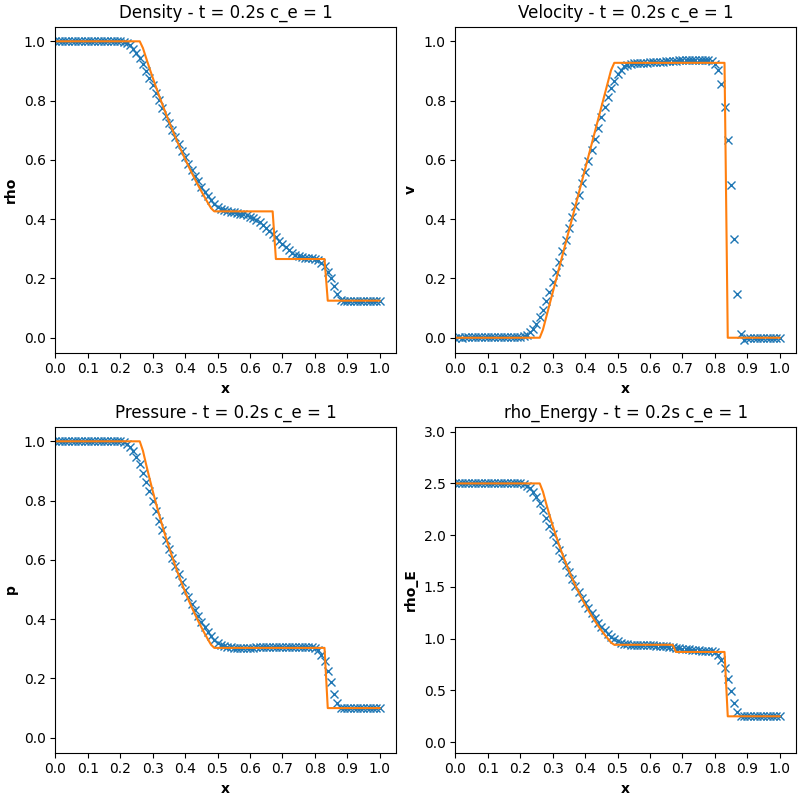
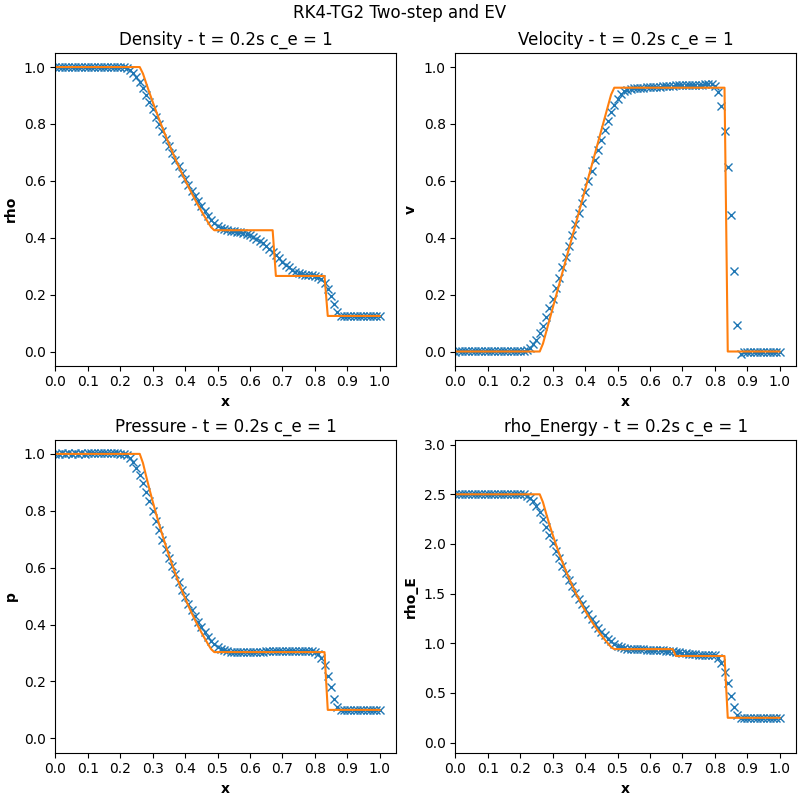
fixed LPS method bug

diff --git a/main.py b/main.py
@@ -14,8 +14,8 @@ def configure_simulation():
           "2. Taylor Galerkin (TG2) One-Step \n"
           "3. Taylor Galerkin (TG2) Two-Step \n"
           "4. RK4 with Taylor Galerkin Two-Step \n"
-          "5. RK4 with Taylor Galerkin Two-Step and Entropy Viscosity \n"
-          "6. RK4 with Taylor Galerkin Two-Step, EV and LPS \n"
+          "5. RK4 with Taylor Galerkin Two-Step and EV stabilization \n"
+          "6. RK4 with EV and LPS stabilization \n"
           "\nType your choice here -----> "
      ))
 
@@ -26,8 +26,8 @@ def configure_simulation():
           "2. Taylor Galerkin (TG2) One-Step \n"
           "3. Taylor Galerkin (TG2) Two-Step \n"
           "4. RK4 with Taylor Galerkin (TG2) Two-Step \n"
-          "5. RK4 with Taylor Galerkin Two-Step and Entropy Viscosity \n"
-          "6. RK4 with Taylor Galerkin Two-Step, EV and LPS \n"
+          "5. RK4 with Taylor Galerkin Two-Step and EV stabilization \n"
+          "6. RK4 with EV and LPS stabilization \n"
           "\nType your choice here -----> "
           ))
      return t_end, stabilization_choice
@@ -36,10 +36,11 @@ def configure_simulation():
 def setup_simulation(t_end, stabilization_choice):
     variables_titles = ['- Density', '- Velocity', '- Pressure', '- Energy']
     y_axis_labels = ['rho', 'v', 'p', 'E']
-    stabilization_graph_titles = ['1D Shock Tube (RK4-Standard Galerkin) ', '1D Shock Tube (TG2-One step)', '1D Shock Tube (TG2-Two step)', '1D Shock Tube (RK4-TG2 Two step)', 'RK4-TG2 Two-step and EV', 'RK4-TG2 Two-Step, EV and LPS']
-    folder_paths = ['./RK4_standard_galerkin', './TG2_one_step', './TG2_two_step', './RK4_TG2_two_step', './RK4_TG2_two_step_EV', './RK4_TG2_two_step_EV_LPS']
-    file_names = ['RK4_standard_galerkin', 'TG2_one_step', './TG2_two_step', './RK4_TG2_two_step', './RK4_TG2_two_step_EV', './RK4_TG2_two_step_EV_LPS']
-    methods_file_name = ['RK4_galerkin', 'TG2_one_step', 'TG2_two_step', 'RK4_TG2_two_step', 'RK4_TG2_two_step_EV', 'RK4_TG2_two_step_EV_LPS']
+    stabilization_graph_titles = ['1D Shock Tube (RK4-Standard Galerkin) ', '1D Shock Tube (TG2-One step)', '1D Shock Tube (TG2-Two step)', '1D Shock Tube (RK4-TG2 Two step)', 'RK4-TG2 Two-step and EV', 'RK4, EV and LPS stabilization']
+    folder_paths = ['./RK4_standard_galerkin', './TG2_one_step', './TG2_two_step', './RK4_TG2_two_step', './RK4_TG2_two_step_EV', './RK4_EV_LPS']
+    file_names = ['RK4_standard_galerkin', 'TG2_one_step', './TG2_two_step', './RK4_TG2_two_step', './RK4_TG2_two_step_EV', './RK4_EV_LPS']
+    methods_file_name = ['RK4_galerkin', 'TG2_one_step', 'TG2_two_step', 'RK4_TG2_two_step', 'RK4_TG2_two_step_EV', 'RK4_EV_LPS']
+    init_problem_name = ['shock', 'explosion']
 
     if stabilization_choice == 1:
          stabilization_graph_title = stabilization_graph_titles[0]
@@ -123,7 +124,7 @@ def setup_simulation(t_end, stabilization_choice):
     x0_analytical = numel // 2
 
     # Entropy viscosity tunable constant
-    c_e = 0.4
+    c_e = 1
 
 
     return {
@@ -135,6 +136,7 @@ def setup_simulation(t_end, stabilization_choice):
          'folder_path': folder_path,
          'file_name': file_name,
          'method_file_name': method_file_name,
+         'init_problem_name': init_problem_name,
          'L': L,
          'xnode': xnode,
          'numel': numel,
@@ -396,6 +398,7 @@ def run_simulation(config):
                 M_tuple, F_tuple, F_visc_tuple, F_lps_tuple = assemble_EV_LPS(U_temp_stage, config['numel'], config['xnode'], config['N_mef'], config['Nxi_mef'], config['wpg'], config['gamma'], config['dt'], config['c_e'], g_tuple)
 
                 k[s] = tuple(config['dt'] * solve(M_tuple[var], (F_tuple[var] + F_visc_tuple[var] + F_lps_tuple[var])) for var in range(len(U_temp)))
+
 
 
             for var in range(len(config['U'])):

diff --git a/functions.py b/functions.py
@@ -433,16 +433,15 @@ def assemble_g_rhs_system(U_current, numel, xnode, N_mef, Nxi_mef, wpg):
             Nx = Nxi_mef[ig, :] * 2 / h
             w_ig = weight[ig]
 
-            rho_gp = np.dot(N, rho_el)
-            m_gp = np.dot(N, m_el)
-            rho_E_gp = np.dot(N, rho_E_el)
-            
+            rho_gpx = np.dot(Nx, rho_el)
+            m_gpx = np.dot(Nx, m_el)
+            rho_E_gpx = np.dot(Nx, rho_E_el)
+        
             M_g[np.ix_(isp, isp)] += w_ig * np.outer(N, N)
 
-            rhs_rho[isp] += w_ig * (Nx * rho_gp)
-            rhs_m[isp] += w_ig * (Nx * m_gp)
-            rhs_rho_E[isp] += w_ig * (Nx * rho_E_gp)
-
+            rhs_rho[isp] += w_ig * (N * rho_gpx)
+            rhs_m[isp] += w_ig * (N  * m_gpx)
+            rhs_rho_E[isp] += w_ig * (N * rho_E_gpx)
 
     M_g[0,0] = 1
     M_g[-1, -1] = 1
@@ -483,7 +482,7 @@ def assemble_EV_LPS(U_current, numel, xnode, N_mef, Nxi_mef, wpg, gamma, dt, c_e
         entropy_el = rho_el/(gamma-1) * np.log(p_el/rho_el**gamma)
         entropy_flux_el = entropy_el * u_el
 
-        v_lps = (h*np.max(np.abs(u_el) + c_el))/2
+        v_upw = (h*np.max(np.abs(u_el) + c_el))/2
 
         ngaus = wpg.shape[0]
         for ig in range(ngaus):
@@ -513,9 +512,11 @@ def assemble_EV_LPS(U_current, numel, xnode, N_mef, Nxi_mef, wpg, gamma, dt, c_e
             F[1][isp] += w_ig * (Nx * F_m_gp)
             F[2][isp] += w_ig * (Nx * F_rho_E_gp)
 
-            F_lps[0][isp] += - w_ig * v_lps * (rho_gpx - g_rho_gp)
-            F_lps[1][isp] += - w_ig  * v_lps * (m_gpx - g_m_gp)
-            F_lps[2][isp] += - w_ig * v_lps * (rho_E_gpx - g_rho_E_gp)
+
+            F_lps[0][isp] += - w_ig * v_upw * Nx * (rho_gpx - g_rho_gp)
+            F_lps[1][isp] += - w_ig  * v_upw * Nx * (m_gpx - g_m_gp)
+            F_lps[2][isp] += - w_ig * v_upw * Nx * (rho_E_gpx - g_rho_E_gp)
+
            
     M[0][0,0] = 1
     M[1][0,0] = 1
@@ -759,6 +760,7 @@ def plot_solution(t_end, variables_tuple , config, analytic, rho_energy_analytic
     ax[1, 1].set_xticks([i * 0.1 for i in range(11)])
     ax[1, 1].set_ylim([-0.10, 3.05])
 
+    plt.suptitle(f"{config['stabilization_graph_title']}")
     plt.savefig(f"./{config['folder_path']}/{config['method_file_name']}_t_end={t_end}{file_c_e}.png")
     plt.close()
 

diff --git a/README.md b/README.md
@@ -152,7 +152,13 @@ v^{LPS,e} = \frac{\omega h^e ||f'(u_h)||_{L^\infty(K^e)}}{2p}
 $$
 
 
-With $\omega = 1$ (default) $p = 1$ (degree of FEM polynomial).
+With $\omega = 1$ (default) $p = 1$ (degree of FEM polynomial). 
+
+In essence the $v^{LPS,e}$ described above is none other than just the upwind viscosity in our 1D code:
+
+$$
+v^{UPW} = \frac{h^e \max (|u_{el}| + c_{el})}{2}
+$$
 
 **Physically**: This represents the strength of the stabilization. $||f'(u_h)||$ measures how fast the solution is changing. The bigger the element size $h_e$ the greater the stabilization added. Basically controls how much stabilization is applied based on how sharp variations are.
 
@@ -162,9 +168,7 @@ Following this I will outline the steps in which I took to apply it in my code:
 - At first, I solve the system of equations $M g = rhs$. Where $M$ is the consistent mass matrix and $rhs$ is built as follows: 
 $$rhs = \sum \int N_x U_{gp}$$
 - **NOTE**: The system of equations being solved essentially solve for the projected gradient $g_h$ which is a smoother represenation of the actual gradient $U_h$. This filters out sharp oscillations and introduces smoothness.  
-- Following this a new function is created within which $v_{LPS}$ at the element is calculated using the following formula (gives SCALAR value):
-
-$$v_{LPS,e} = \frac{h||u+c||}{2}$$
+- Following this the upwind viscosity is calculated at the element, $v^{UPW}$:
 
 - Retrieve the value of g at the current element by taking g calculated before, passing it to our function and the calculating g at the gaussian point as:
 
@@ -176,13 +180,13 @@ $$ U_{gpx} = N_x \cdot U_{el}$$
 
 - Form the LPS matrix that is to be added to the FEM formulation:
 
-$$ F_{LPS} = \sum \int N_x * v_{LPS,e} * (U_{gpx} - g_{gp})dx $$
+$$ F_{LPS} = - \sum \int N_x * v_{UPW,e} * (U_{gpx} - g_{gp})dx $$
 
 
-Adding this to the FEM formulation and solve.
+The overall system of equations is complete and solved:
 
 $$
-\int_{\Omega} w U_t dx - \int_{\Omega} w_x F(U) dx - \int_{\Omega} w_x F_{visc} (U) dx + v_{LPS,e} \int_{\Omega} w_x \cdot(U_x - g) dx = 0
+M U_t = F + F_{visc} + F_{LPS}
 $$
 
 **OVERALL**: The LPS method stabilizes the solution by filtering out oscillations in the gradient. It compares the true gradient $U_x$ with a smoothed gradient $g_h$. The difference between these two is controlled by the stabilization parameter $v_{LPS,e}$ which ensures that overly sharp changes that result in numerical issues are penalized and smoothed out.
@@ -236,5 +240,13 @@ Reducing this tunable constant c_e from =1 to =0.05 we get the following comprom
 <br>
 <div>
     <img src="./RK4_TG2_two_step_EV/RK4_TG2_two_step_EV_t_end=0.2_c_e=0.05.png" alt="RK4 TG2 two-step t=0.2s" style="display: block; margin: 0 auto; width: 60%;">
+</div>
+<br>
+
+Thereafter, leaving the TG2 two step method behind, the next idea is to combine the Entropy Viscosity with the LPS projection method. With a tunable constant we get the following promising results:
+
+<br>
+<div>
+    <img src="./RK4_EV_LPS/RK4_EV_LPS_t_end=0.2_c_e=0.4.png" alt="RK4 TG2 two-step t=0.2s" style="display: block; margin: 0 auto; width: 60%;">
 </div>
 <br>
